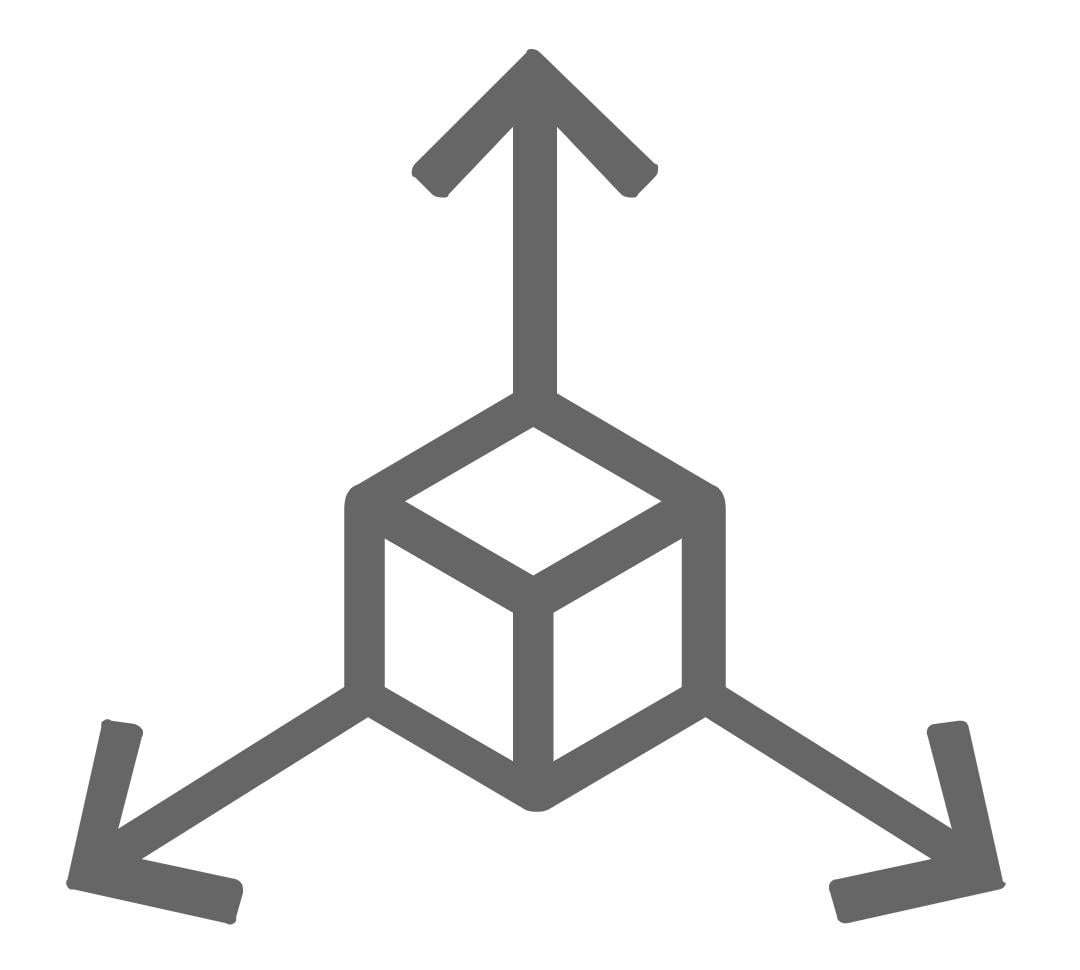
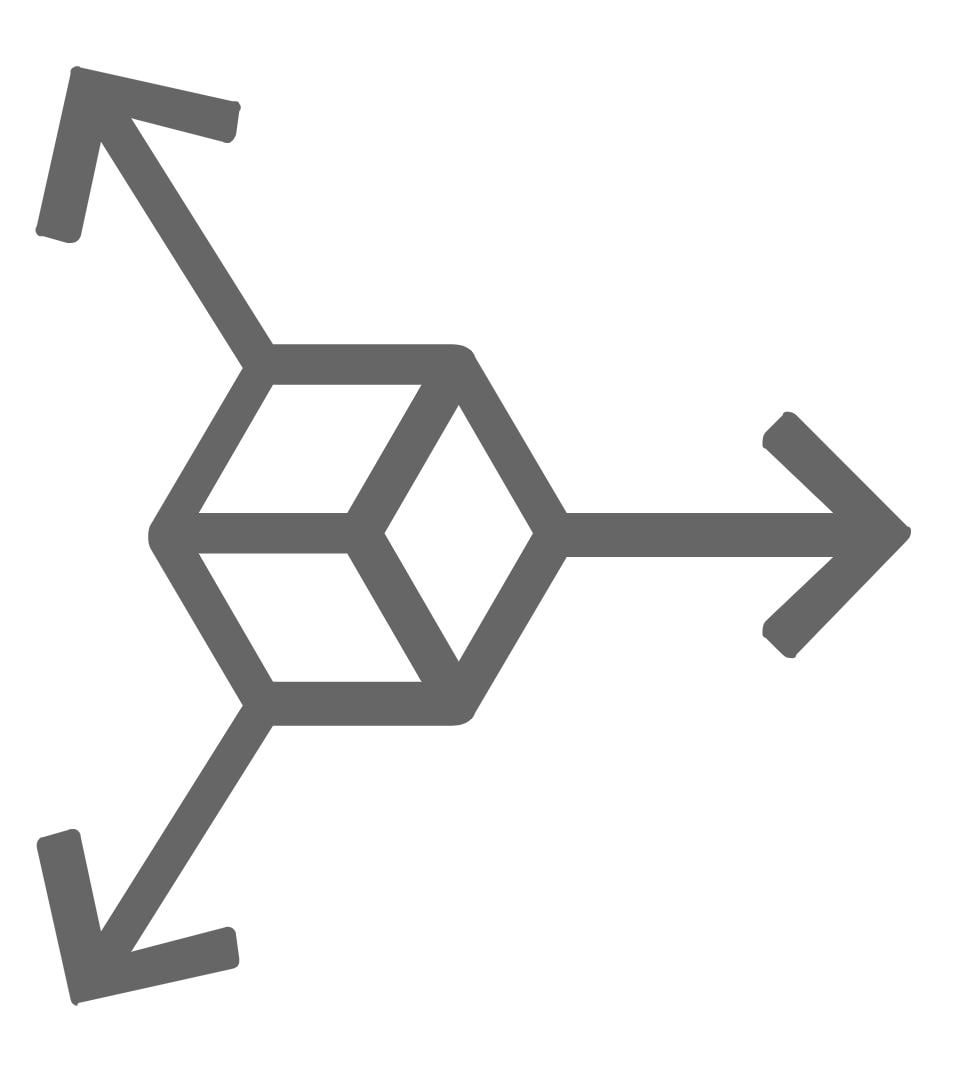
Update homepage layout and style, add CSS

Changed region(s): [[0.0309, 0.0309, 0.9588, 0.9588]]

diff --git a/index.html b/index.html
@@ -2,64 +2,16 @@
 <html lang="en">
 <head>
   <meta charset="UTF-8">
-  <title>Numen-Inoculated | Spiritual Linguistic | V-SpaceX3</title>
+  <title>Δtlantis | Home</title>
   <link rel="stylesheet" href="style.css">
-  <style>
-    body {
-      background-color: #000;
-      color: #0f0;
-      font-family: 'Courier New', monospace;
-      text-align: center;
-      margin: 0;
-      padding: 0;
-    }
-
-    img {
-      max-width: 80%;
-      height: auto;
-      margin-top: 20px;
-    }
-
-    h1 {
-      margin-top: 10px;
-      font-size: 1.8em;
-      color: #0ff;
-    }
-
-    .links {
-      margin-top: 30px;
-    }
-
-    .links a {
-      display: block;
-      margin: 10px;
-      color: #0f0;
-      text-decoration: none;
-      font-size: 1.2em;
-      border: 1px solid #0f0;
-      padding: 10px 20px;
-      width: fit-content;
-      margin-left: auto;
-      margin-right: auto;
-    }
-
-    .links a:hover {
-      background-color: #0f0;
-      color: #000;
-    }
-  </style>
 </head>
 <body>
-  <img src="axis-symbol.jpeg" alt="Δxis Symbol">
-  <h1>Numen-Inoculated | Spiritual Linguistic | V-SpaceX3</h1>
-
-  <div class="links">
-    <a href="writings.html">📝 Enter the Writings Δrchive</a>
-    <a href="staging.html">🧪 Enter the Staging Δrea</a>
-    <a href="sigils.html">🔮 Sigil Generator</a>
-    <a href="font.html">🪶 Atlantean Font Viewer</a>
-    <a href="diagrams.html">🧩 Sacred DiΔgrams</a>
-    <a href="contact.html">📬 ContΔct</a>
-  </div>
+  <nav>
+    <a href="writings.html" class="nav-button">Writings</a>
+    <a href="staging.html" class="nav-button">Staging Δrea</a>
+    <a href="sigils.html" class="nav-button">Sigil Generator</a>
+    <a href="font.html" class="nav-button">Atlantean Font</a>
+    <a href="contact.html" class="nav-button">Contact</a>
+  </nav>
 </body>
 </html>

diff --git a/style.css b/style.css
@@ -1,0 +1,38 @@
+nav {
+  position: absolute;
+  right: 5%;
+  top: 50%;
+  transform: translateY(-50%);
+  display: flex;
+  flex-direction: column;
+  gap: 20px;
+  z-index: 2;
+}
+
+.nav-button {
+  background-color: #222;
+  color: #0f0;
+  border: 1px solid #0f0;
+  padding: 10px 20px;
+  text-decoration: none;
+  font-size: 1.2em;
+  transition: background 0.3s, color 0.3s;
+}
+
+.nav-button:hover {
+  background-color: #0f0;
+  color: #000;
+}
+body {
+  background-color: #000;
+  color: #0f0;
+  margin: 0;
+  font-family: 'Arial', sans-serif;
+  background-image: url("img/axis-symbol.jpeg");
+  background-repeat: no-repeat;
+  background-position: center;
+  background-size: 60%;
+  height: 100vh;
+  overflow: hidden;
+}
+
